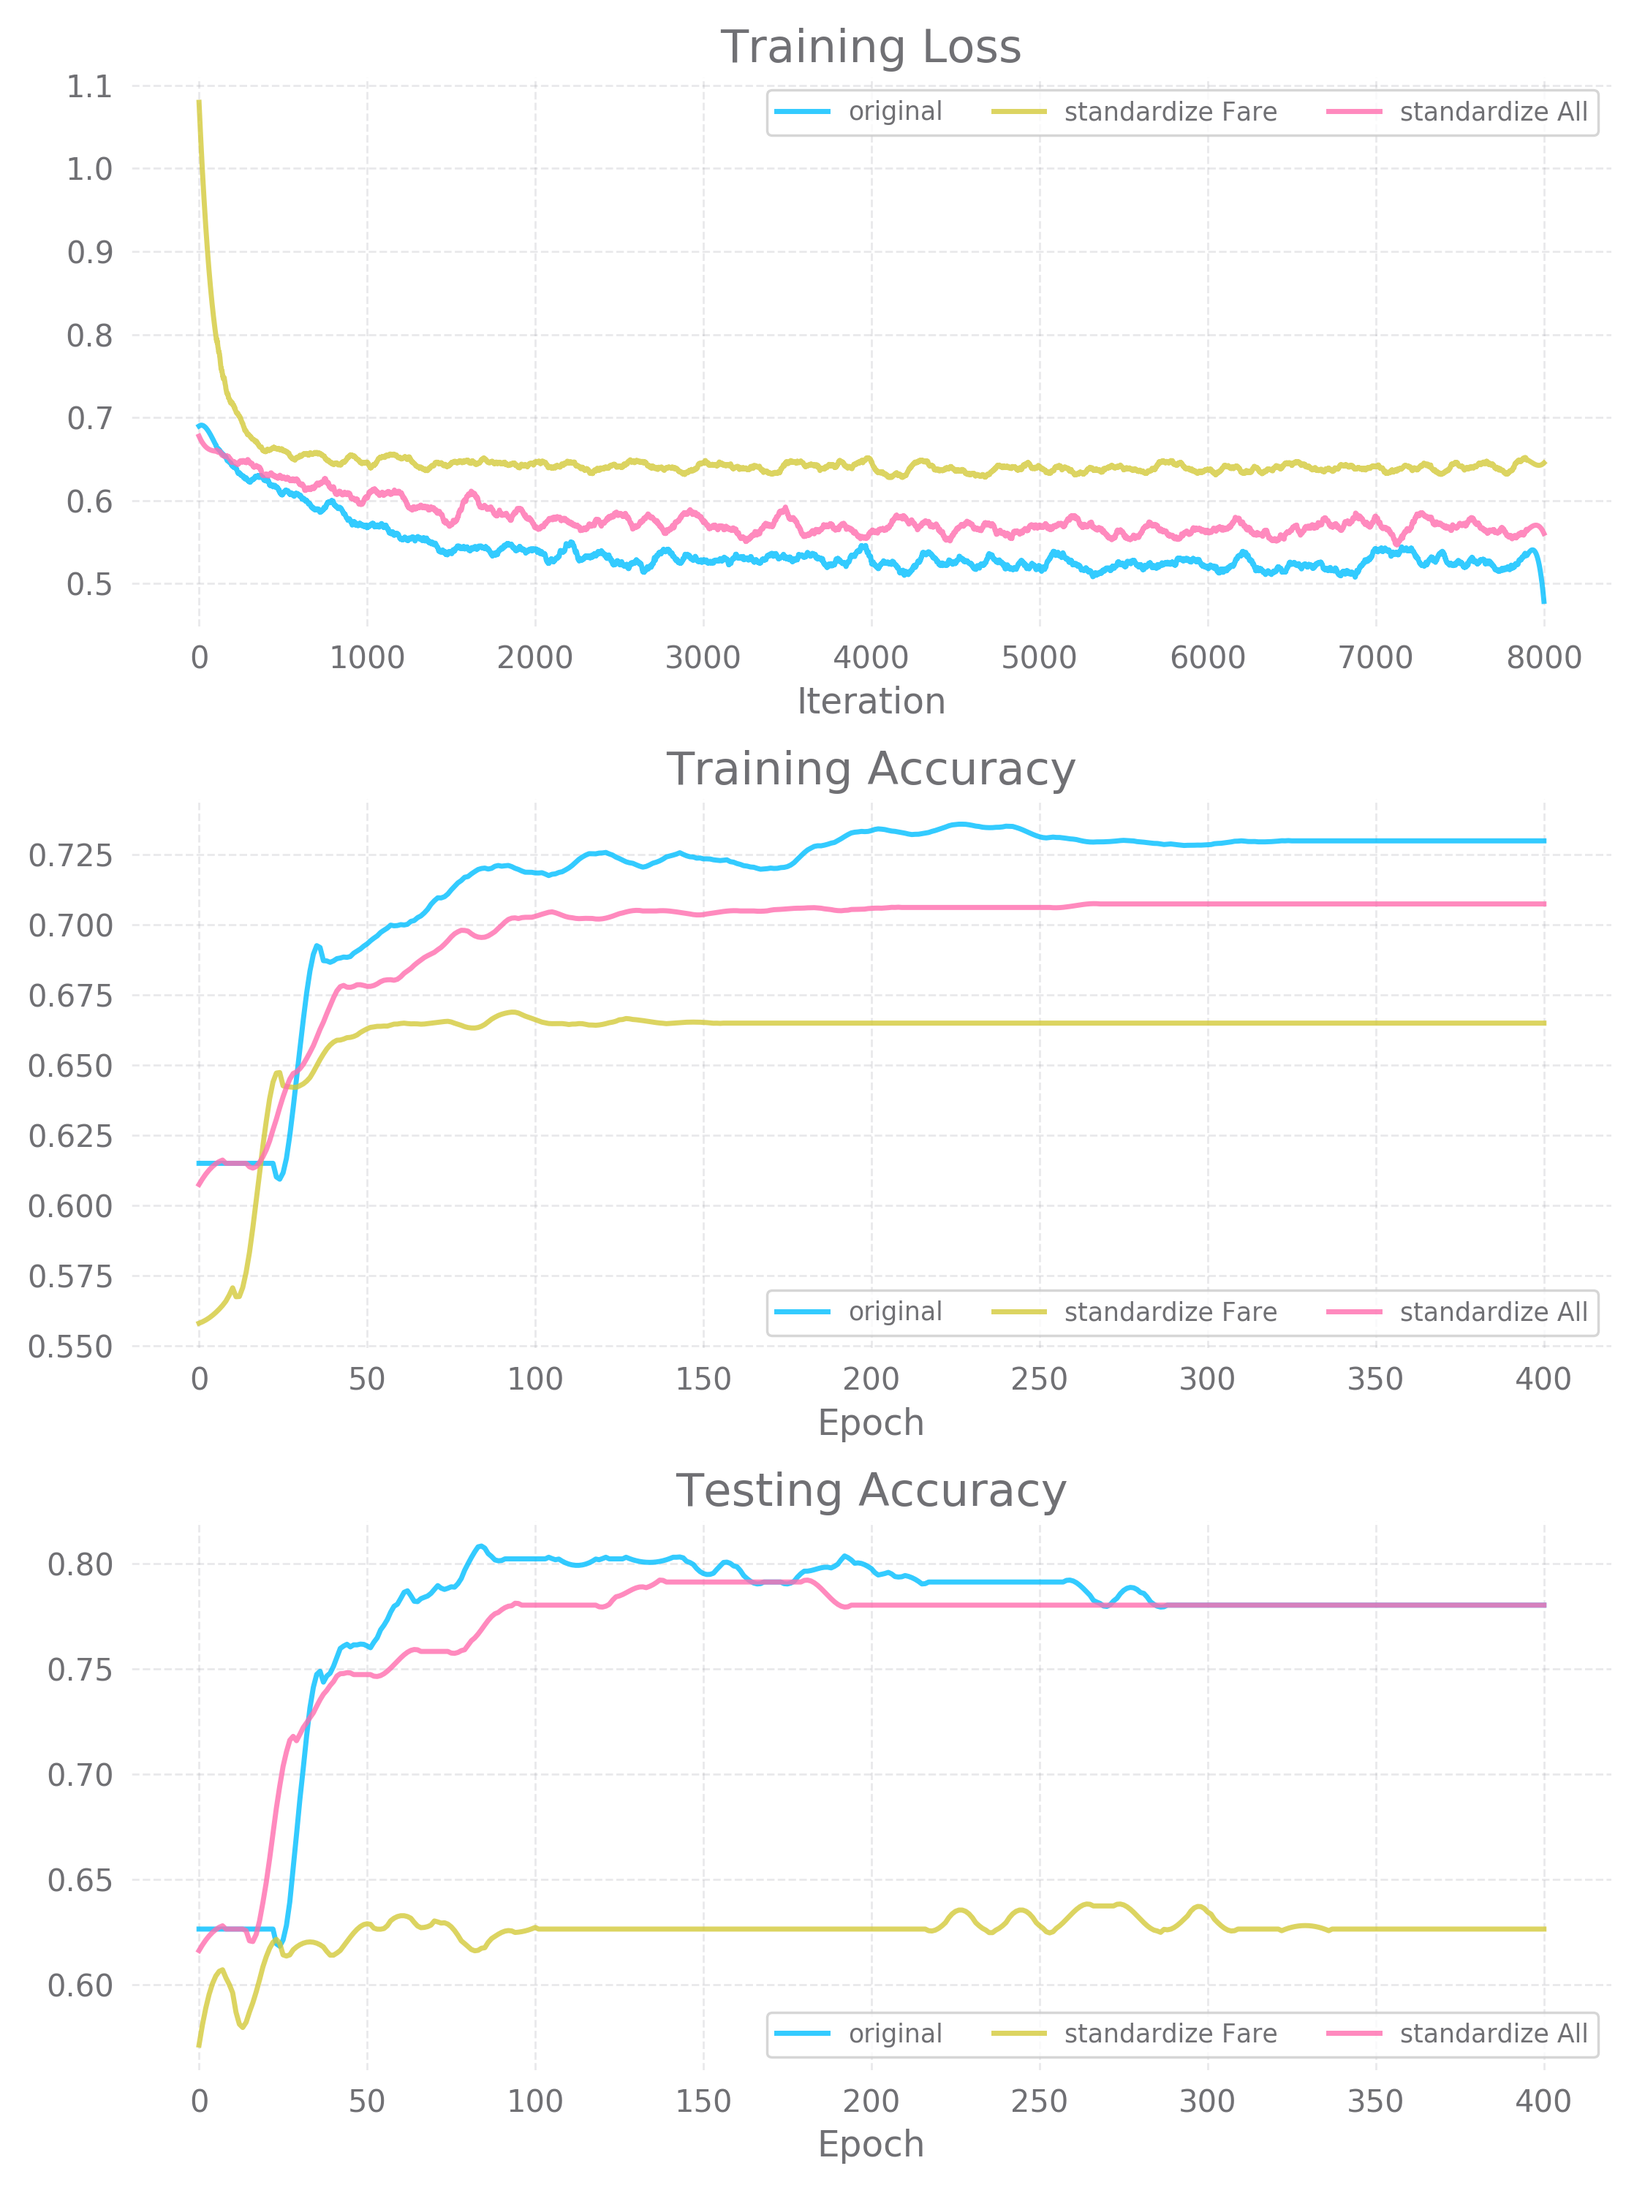
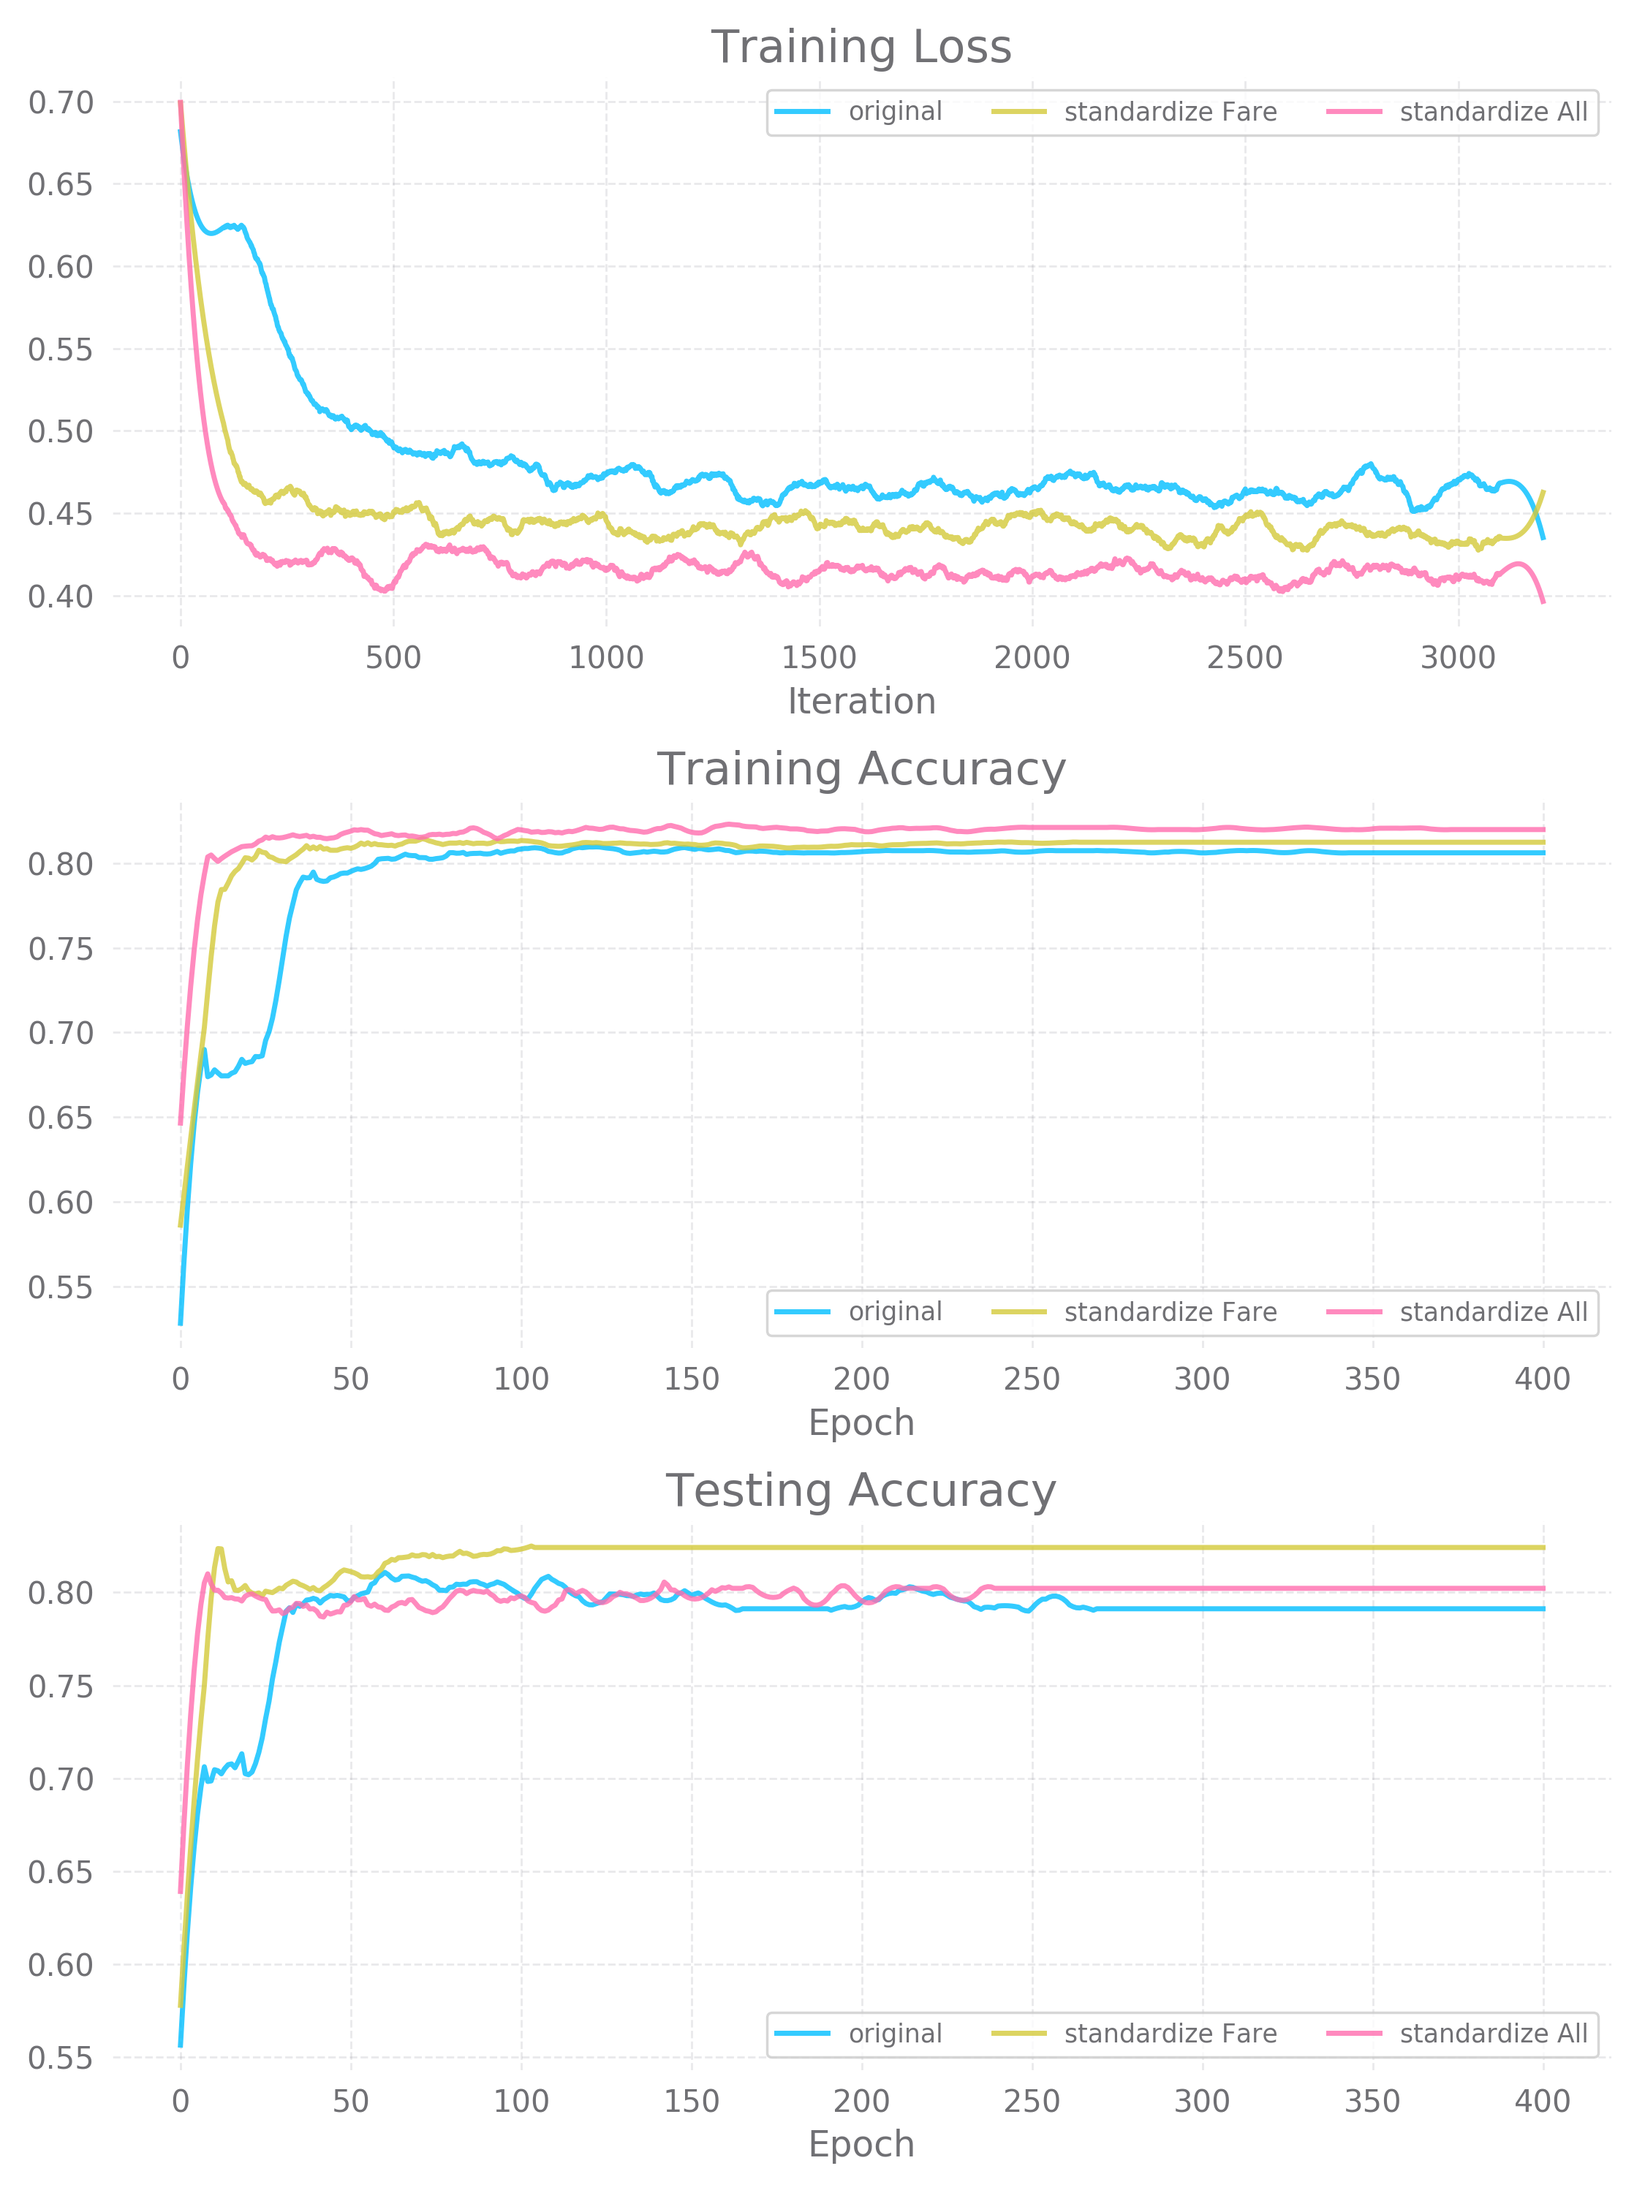
update parameters

diff --git a/main.py b/main.py
@@ -216,18 +216,18 @@ def problem3():
     model_3 = FullyConnectedNet([3, 3],
                                 input_dim=6,
                                 num_classes=2,
-                                weight_scale=5e-2,
+                                weight_scale=1e-1,
                                 reg=1e-4)
     solver_3 = Solver(
         model_3,
         data,
         update_rule=OPTIMIZER,
         optim_config={
-            'learning_rate': 0.001,
+            'learning_rate': 0.0138,
         },
         lr_decay=0.98,
         num_epochs=NUM_EPOCH,
-        batch_size=40,
+        batch_size=100,
         print_every=100,
         name='original',
         verbose=False)
@@ -255,18 +255,18 @@ def problem3():
     model_3_st = FullyConnectedNet([3, 3],
                                    input_dim=6,
                                    num_classes=2,
-                                   weight_scale=5e-1,
+                                   weight_scale=1e-1,
                                    reg=1e-4)
     solver_3_st = Solver(
         model_3_st,
         data,
         update_rule=OPTIMIZER,
         optim_config={
-            'learning_rate': 0.001,
+            'learning_rate': 0.0138,
         },
         lr_decay=0.98,
         num_epochs=NUM_EPOCH,
-        batch_size=40,
+        batch_size=100,
         print_every=100,
         name='standardize Fare',
         verbose=False)
@@ -276,7 +276,7 @@ def problem3():
     model_3_all = FullyConnectedNet([3, 3],
                                     input_dim=6,
                                     num_classes=2,
-                                    weight_scale=5e-1,
+                                    weight_scale=1e-1,
                                     reg=1e-4)
     x_train[:, 2] = (x_train[:, 2] - age_mean) / age_std
     x_test[:, 2] = (x_test[:, 2] - age_mean) / age_std
@@ -291,11 +291,11 @@ def problem3():
         data,
         update_rule=OPTIMIZER,
         optim_config={
-            'learning_rate': 0.001,
+            'learning_rate': 0.0138,
         },
         lr_decay=0.98,
         num_epochs=NUM_EPOCH,
-        batch_size=40,
+        batch_size=100,
         print_every=100,
         name='standardize All',
         verbose=False)
@@ -310,8 +310,8 @@ def problem3():
 
 def problem4():
     data_df = pd.read_csv('titanic.csv')
-    col = list(data_df.columns)[1:]
-    solvers = []
+    col, solvers = list(data_df.columns)[1:], []
+    # solvers = []
     for i in col:
         data = data_df.drop(i, axis=1).values
         # print(data_df.drop(i, axis=1).head())
@@ -367,7 +367,7 @@ def problem4():
         data,
         update_rule=OPTIMIZER,
         optim_config={
-            'learning_rate': 0.001,
+            'learning_rate': 0.0138,
         },
         lr_decay=0.98,
         num_epochs=600,
@@ -568,10 +568,10 @@ def his(FEAT, feat_analysis, nbin, upper_bound=1e5):
 
 
 if __name__ == '__main__':
-    problem1()
-    problem2()
+    # problem1()
+    # problem2()
     problem3()
-    problem4()
-    problem5()
-    problem6()
+    # problem4()
+    # problem5()
+    # problem6()
     pass
